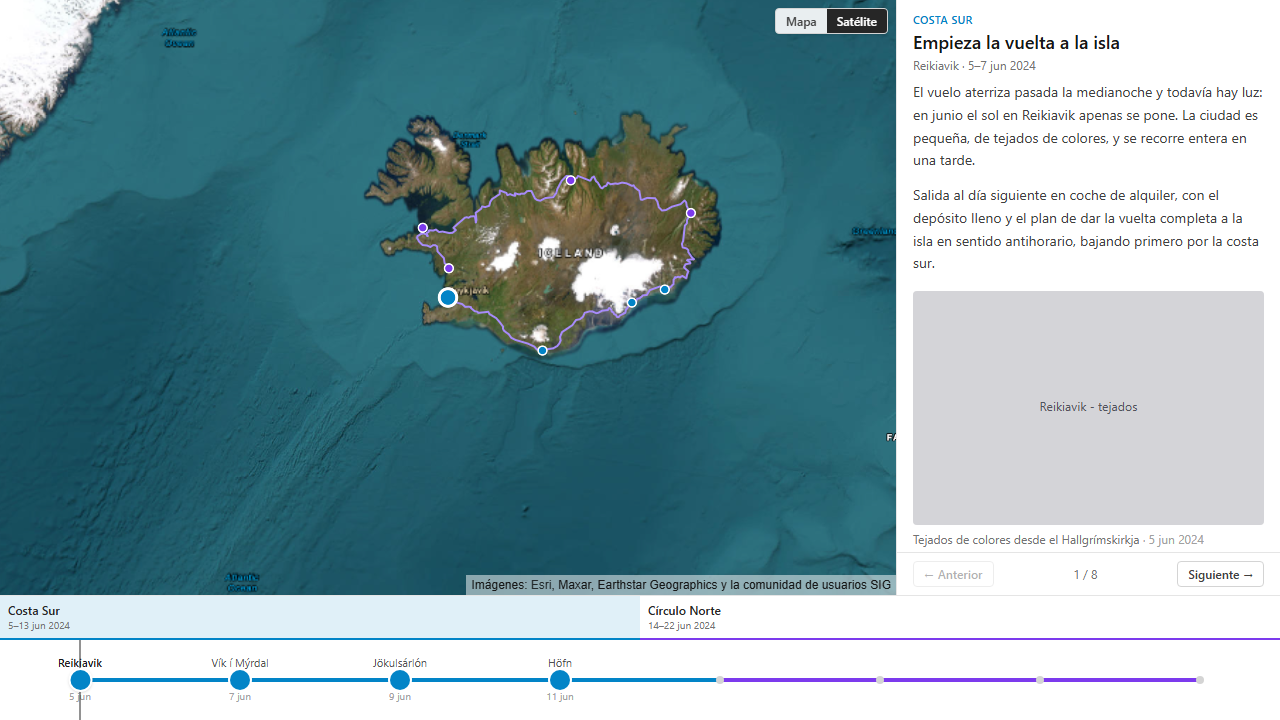
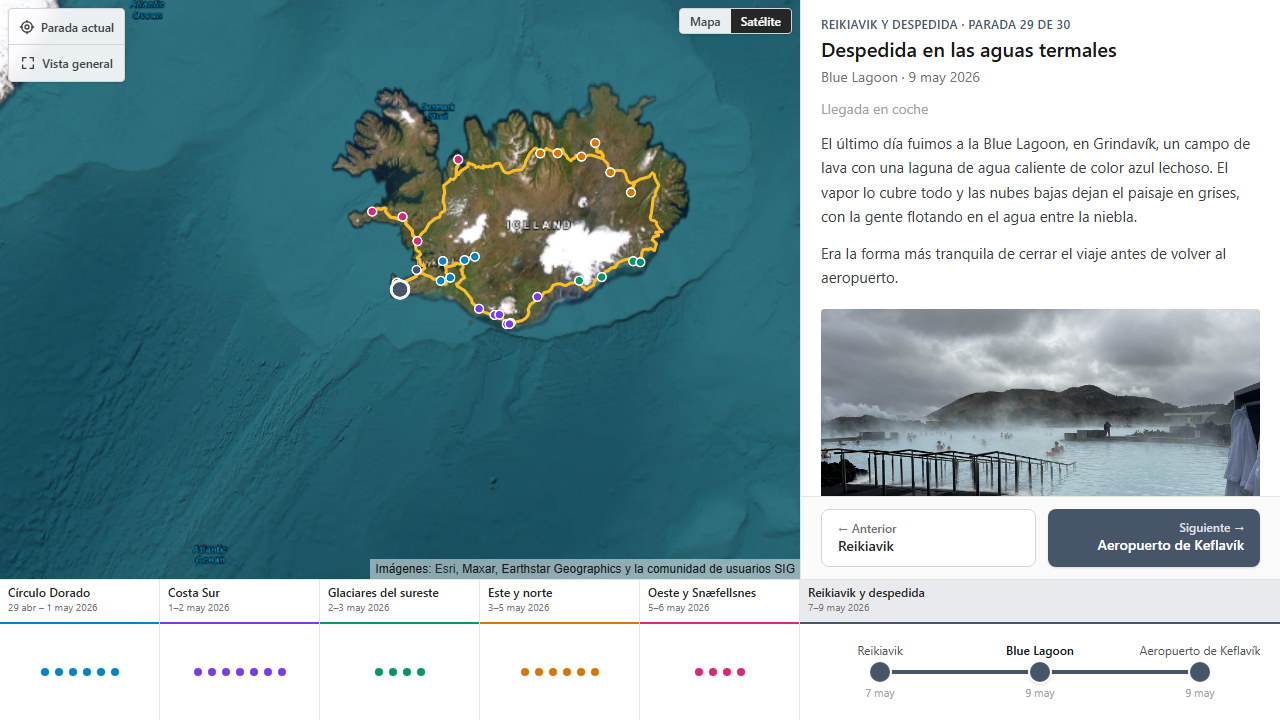
docs(blog): actualiza el post de TripMap con el viaje real y capturas nuevas

diff --git a/src/content/post/es/tripmap.md b/src/content/post/es/tripmap.md
@@ -5,7 +5,7 @@ description: "Cómo he construido TripMap: Astro con una isla de React, MapLibre
 tags: [astro, react, maplibre]
 coverImage:
   src: ../_assets/tripmap-escritorio.png
-  alt: "El mapa sobre imagen de satélite con la ruta siguiendo la carretera de circunvalación de Islandia, el panel de la parada a la derecha y la línea de tiempo abajo"
+  alt: "El mapa sobre imagen de satélite con la ruta completa del viaje a Islandia, de Keflavík a la Blue Lagoon, el panel de la parada a la derecha y la línea de tiempo con seis capítulos abajo"
 draft: false
 ---
 
@@ -13,7 +13,7 @@ Un viaje largo se cuenta mal con las herramientas de siempre. Un álbum de fotos
 
 Eso es TripMap. El mapa ocupa casi toda la pantalla y dibuja la ruta y las paradas; abajo hay una línea de tiempo dividida en capítulos; al lado, un panel con el título, las fechas, el texto y las fotos de la parada activa. Todo está sincronizado: da igual si haces click en un punto del mapa, arrastras el cursor de la timeline o pulsas las flechas del teclado.
 
-El viaje que va a llenarlo es uno de varios años por África, con más de cien paradas. Mientras preparo ese contenido, los datos del repo son un viaje de prueba por Islandia con ocho paradas, que es lo que se ve en las capturas de este post.
+Los datos del repo son un viaje real por Islandia, de once días, con treinta paradas y fotos propias, y es lo que se ve en las capturas de este post.
 
 ---
 
@@ -140,7 +140,7 @@ El segundo era el cambio de basemap. `setStyle` hace por defecto un diff con el 
 
 El panel es donde vive lo que hace que esto sea un álbum y no un mapa: el título de la parada, sus fechas, el texto y las fotos.
 
-![La versión móvil con la hoja del panel desplegada: el mapa arriba, el texto de la parada en medio y la línea de tiempo abajo](../_assets/tripmap-movil.png)
+![La versión móvil con la hoja del panel desplegada: el mapa arriba, el texto de la parada en medio y, abajo, la fila de capítulos y las paradas del capítulo activo](../_assets/tripmap-movil.png)
 
 Es el mismo marcado en escritorio y en móvil, con variantes de Tailwind. En escritorio es una columna lateral; en móvil, una hoja inferior que empieza plegada, con la cabecera y los botones de anterior y siguiente siempre visibles, de modo que se puede recorrer el viaje sin perder el mapa de vista. No hay ninguna media query en JavaScript: consultar el ancho en cliente obligaría a un primer render sin saberlo y a arrastrar un listener de `resize`, y la diferencia entre los dos modos es puramente de disposición.
 
@@ -148,7 +148,7 @@ El cuerpo de la parada se escribe en markdown, pero no uso ninguna librería de 
 
 Con las fotos hay un detalle que no es opcional: el esquema exige `width` y `height` para cada una. Sin esas medidas el navegador no sabe cuánto sitio reservar y la página da un salto cuando la imagen carga. Hoy los escribo a mano, que es justo el tipo de trabajo mecánico que acaba haciéndose mal, así que medir y comprimir las fotos antes de meterlas al repo es lo siguiente que toca automatizar.
 
-En las capturas de este post las fotos son rectángulos grises, porque el viaje de prueba usa placeholders. Es la pieza que falta para que esto esté terminado.
+Las fotos de las capturas son las del viaje real. Antes de subirlas les quito los metadatos, porque llevan la ubicación exacta, y las reduzco a 1600 píxeles de lado largo. Hoy lo hago con un script aparte, y meterlo en el repo es lo que falta para que ese paso no sea manual.
 
 ---
 
@@ -156,7 +156,7 @@ En las capturas de este post las fotos son rectángulos grises, porque el viaje 
 
 No usé ninguna librería de timeline. Ninguna de las que miré hacía lo que necesitaba, y lo que necesitaba es bastante concreto.
 
-![La pista de la línea de tiempo, con los capítulos "Costa Sur" y "Círculo Norte" y las paradas del capítulo activo expandidas con su nombre y su fecha](../_assets/tripmap-timeline.png)
+![La línea de tiempo con seis capítulos: los inactivos reducidos a sus puntos y el activo, "Glaciares del sureste", con sus cuatro paradas expandidas con su nombre y su fecha](../_assets/tripmap-timeline.png)
 
 La escala es **uniforme por índice**, no proporcional al tiempo. En un viaje de varios años una escala temporal real deja huecos enormes: tres meses en un sitio y dos días en el siguiente harían la mayoría de paradas inclicables. Las fechas son etiquetas, no posición.
 
@@ -215,7 +215,7 @@ Y lo tercero es sobre escribir la especificación antes que el código. Lo valio
 
 ## Mejoras futuras
 
-Lo inmediato es meter el contenido real, con las fotos de verdad en vez de los placeholders, automatizar su procesado, y un dominio propio: al ser un project site de GitHub Pages, el sitio cuelga de una subcarpeta, y quitarla pasa por un `CNAME` y por retirar la `base` de la configuración. Y bajar del megabyte de bundle sacando las carreteras del JavaScript.
+El contenido real ya está, así que lo inmediato es automatizar el procesado de las fotos y tener un dominio propio: al ser un project site de GitHub Pages, el sitio cuelga de una subcarpeta, y quitarla pasa por un `CNAME` y por retirar la `base` de la configuración. Y bajar del megabyte de bundle sacando las carreteras del JavaScript.
 
 Con las carreteras ya calculadas, dar distancias y tiempos reales está más cerca de lo que estaba: OSRM los devuelve en la misma respuesta y hoy solo guardo la geometría. Lo grande sería que cualquiera pudiera crear su viaje: un editor de "momentos" (fecha, título, texto y fotos) con la ruta dibujándose en vivo mientras lo rellenas, un modo invitado que guarde el borrador en `localStorage`, y en algún punto cuentas, backend y almacenamiento de imágenes.
 

diff --git a/src/content/post/en/tripmap.md b/src/content/post/en/tripmap.md
@@ -7,7 +7,7 @@ A long trip doesn't fit the usual tools. A photo album loses the order and the g
 
 That's TripMap. The map takes up most of the screen and draws the route and the stops; below it there's a timeline split into chapters; next to it, a panel with the title, dates, text and photos of the active stop. Everything stays in sync: it doesn't matter whether you click a point on the map, drag the timeline cursor, or use the arrow keys.
 
-The trip that will fill it is a multi-year one across Africa, with over a hundred stops. While I get that content ready, the data in the repo is a test trip around Iceland with eight stops, which is what you see in the screenshots throughout this post.
+The data in the repo is a real trip around Iceland: eleven days, thirty stops and my own photos, which is what you see in the screenshots throughout this post.
 
 ---
 
@@ -134,7 +134,7 @@ The second was switching basemaps. By default `setStyle` diffs against the previ
 
 The panel is where the part that makes this an album rather than a map lives: the stop's title, its dates, the text and the photos.
 
-![The mobile version with the panel sheet expanded: map on top, stop text in the middle, timeline at the bottom](../_assets/tripmap-movil.png)
+![The mobile version with the panel sheet expanded: map on top, stop text in the middle and, at the bottom, the chapter row and the stops of the active chapter](../_assets/tripmap-movil.png)
 
 It's the same markup on desktop and mobile, with Tailwind variants. On desktop it's a side column; on mobile, a bottom sheet that starts collapsed, with the header and the previous/next buttons always visible, so you can walk through the trip without losing sight of the map. There's no media query in JavaScript: checking the width on the client would force a first render without knowing it and drag a `resize` listener along, and the difference between the two modes is purely layout.
 
@@ -142,7 +142,7 @@ The stop body is written in markdown, but I don't use a markdown library. It's 6
 
 The photos come with a detail that isn't optional: the schema requires `width` and `height` for each one. Without those measurements the browser doesn't know how much space to reserve and the page jumps when the image loads. Right now I write them by hand, which is exactly the kind of mechanical work that ends up being done badly, so measuring and compressing photos before they go into the repo is the next thing to automate.
 
-In the screenshots throughout this post the photos are grey rectangles, because the test trip uses placeholders. That's the piece still missing for this to be finished.
+The photos in the screenshots are the ones from the real trip. Before uploading them I strip their metadata, because it carries the exact location, and shrink them to 1600 pixels on the long side. Today I do that with a separate script, and bringing it into the repo is what's missing for that step to stop being manual.
 
 ---
 
@@ -150,7 +150,7 @@ In the screenshots throughout this post the photos are grey rectangles, because 
 
 I didn't use any timeline library. None of the ones I looked at did what I needed, and what I needed is fairly specific.
 
-![The timeline track, with the "Costa Sur" and "Círculo Norte" chapters and the active chapter's stops expanded with their name and date](../_assets/tripmap-timeline.png)
+![The timeline with six chapters: the inactive ones reduced to their dots and the active one, "Glaciares del sureste", with its four stops expanded with their name and date](../_assets/tripmap-timeline.png)
 
 The scale is **uniform by index**, not proportional to time. On a multi-year trip, a real time scale leaves enormous gaps: three months in one place and two days in the next would make most stops unclickable. Dates are labels, not position.
 
@@ -209,7 +209,7 @@ The third is about writing the spec before the code. What was valuable wasn't th
 
 ## Future improvements
 
-The immediate ones are real content, with actual photos instead of placeholders, automating how those photos get processed, and a custom domain: being a GitHub Pages project site, it hangs off a subfolder, and removing that means a `CNAME` and dropping `base` from the config. Plus getting back under a megabyte of bundle by moving the roads out of the JavaScript.
+The real content is already in, so the immediate ones are automating how the photos get processed and a custom domain: being a GitHub Pages project site, it hangs off a subfolder, and removing that means a `CNAME` and dropping `base` from the config. Plus getting back under a megabyte of bundle by moving the roads out of the JavaScript.
 
 With the roads already calculated, real distances and times are closer than they were: OSRM returns them in the same response and today I only keep the geometry. The big one would be letting anyone create their own trip: an editor for "moments" (date, title, text and photos) with the route drawing itself live as you fill it in, a guest mode saving the draft to `localStorage`, and at some point accounts, a backend and image storage.
 
